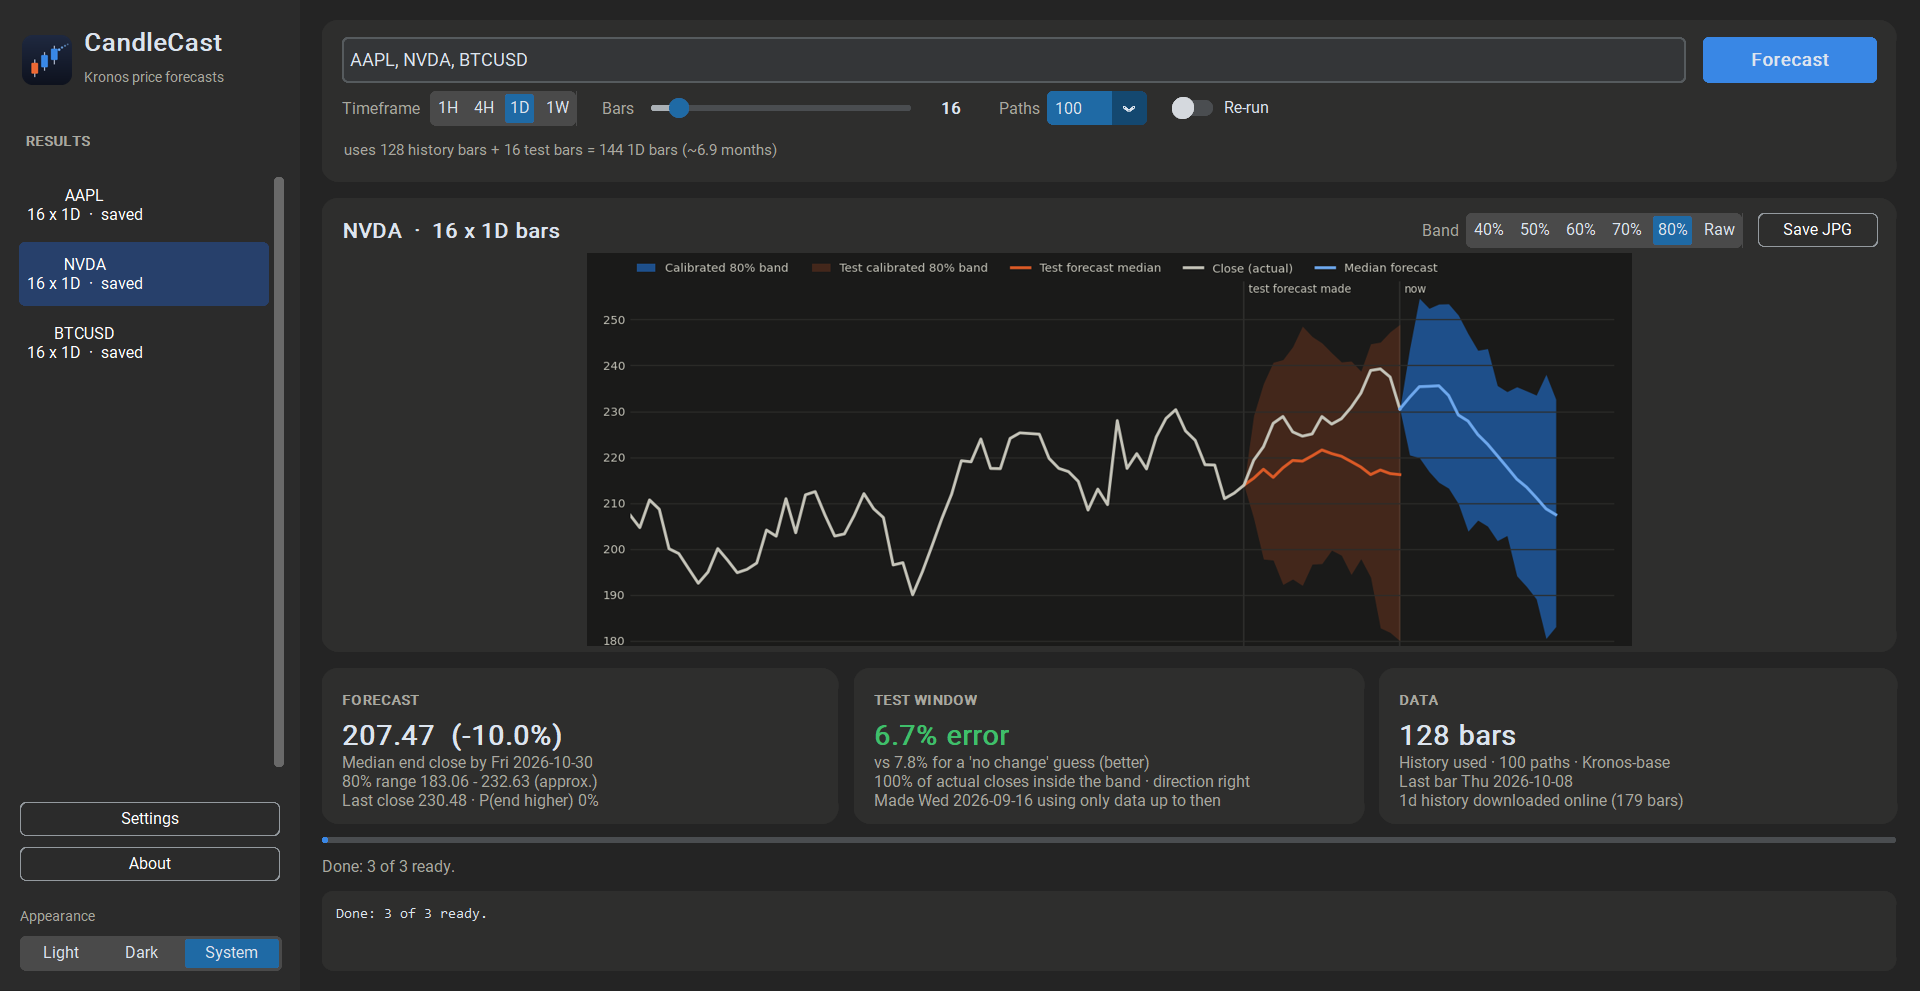
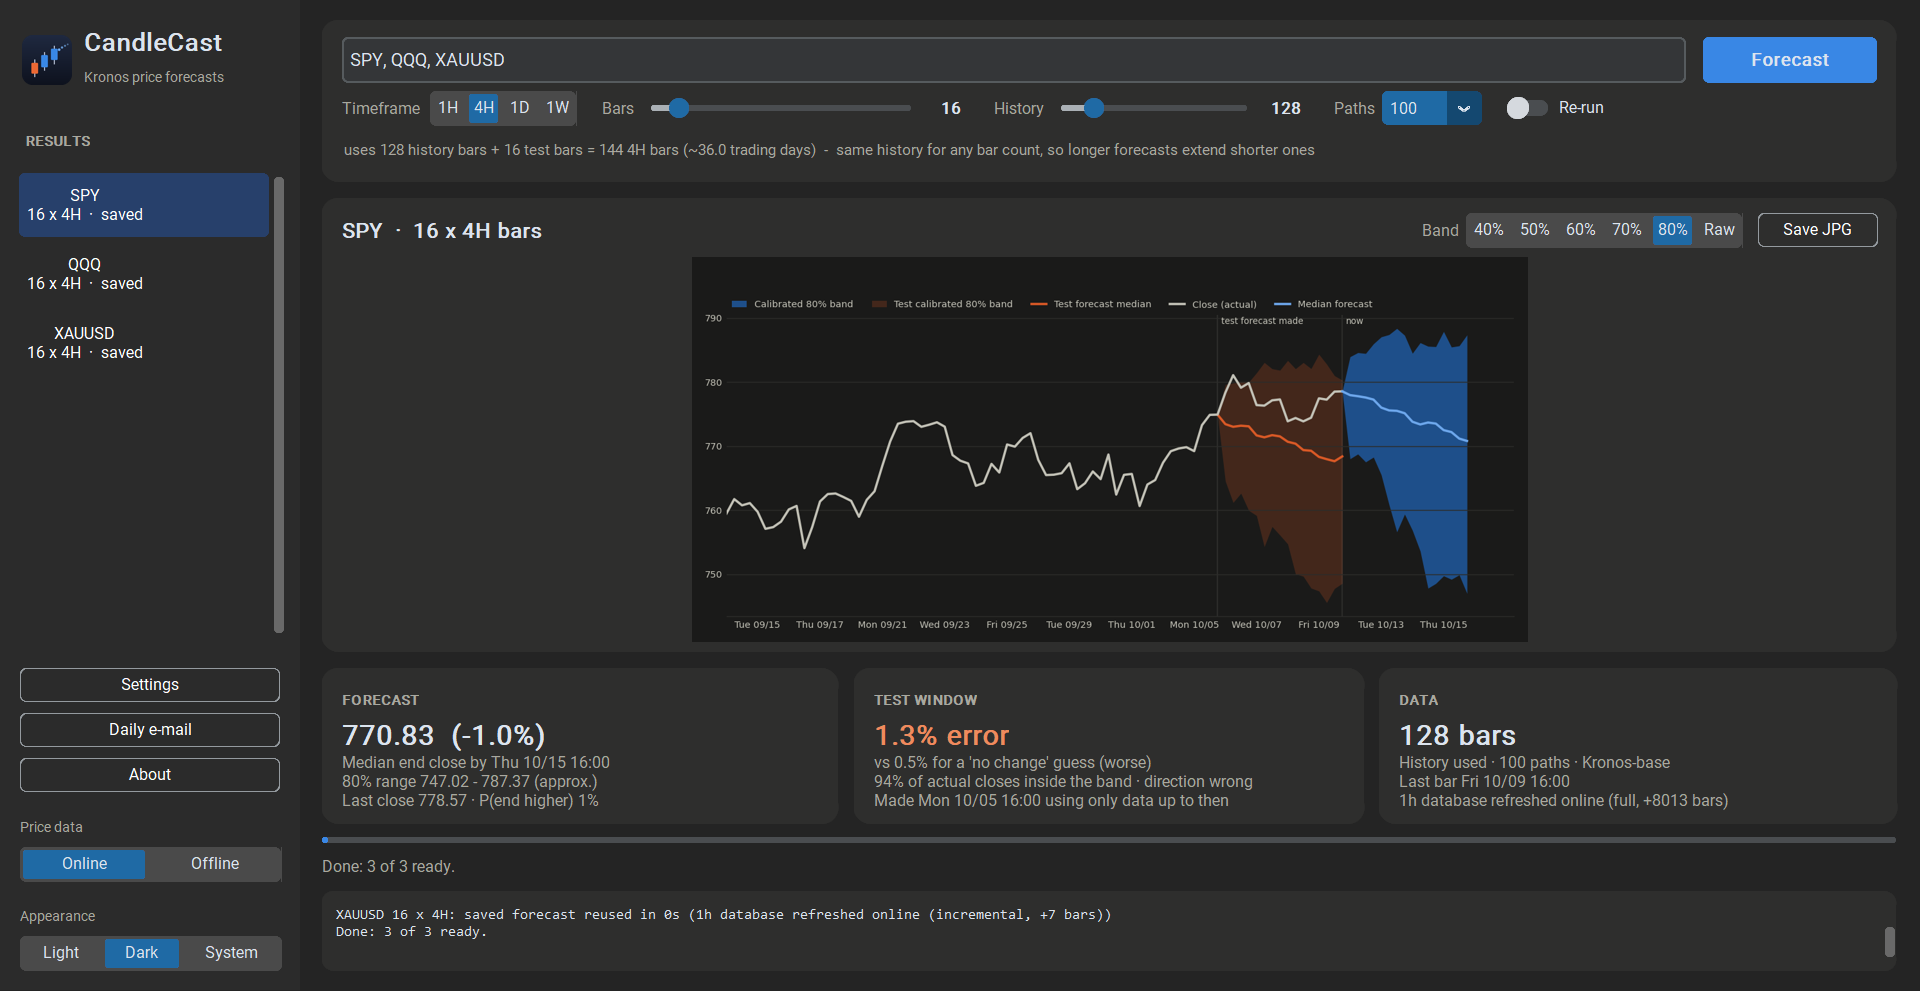
Fit the in-app chart to its frame under Windows display scaling (date axis was cut off); new screenshots

diff --git a/src/candlecast/app.py b/src/candlecast/app.py
@@ -813,7 +813,11 @@ class CandleCastApp(ctk.CTk):
         self.chart_title.configure(text=f"{res.ticker}  ·  {row['pred_len']} x {timeframes.LABELS[row['timeframe']]} bars")
         self._fill_cards(res, level)
         img = Image.open(path)
-        w, h = max(self.chart_box.winfo_width() - 8, 300), max(self.chart_box.winfo_height() - 8, 200)
+        # winfo_* are physical pixels, but CTkImage sizes are multiplied by the Windows display scaling
+        # (e.g. 125%), so convert - otherwise the chart overflows its frame and the date axis is cut off
+        dpi = self.chart._get_widget_scaling() or 1.0
+        w = max(self.chart_box.winfo_width() - 8, 300) / dpi
+        h = max(self.chart_box.winfo_height() - 8, 200) / dpi
         scale = min(w / img.width, h / img.height, 1.0)
         size = (max(1, int(img.width * scale)), max(1, int(img.height * scale)))
         self._chart_image = ctk.CTkImage(light_image=img, dark_image=img, size=size)
